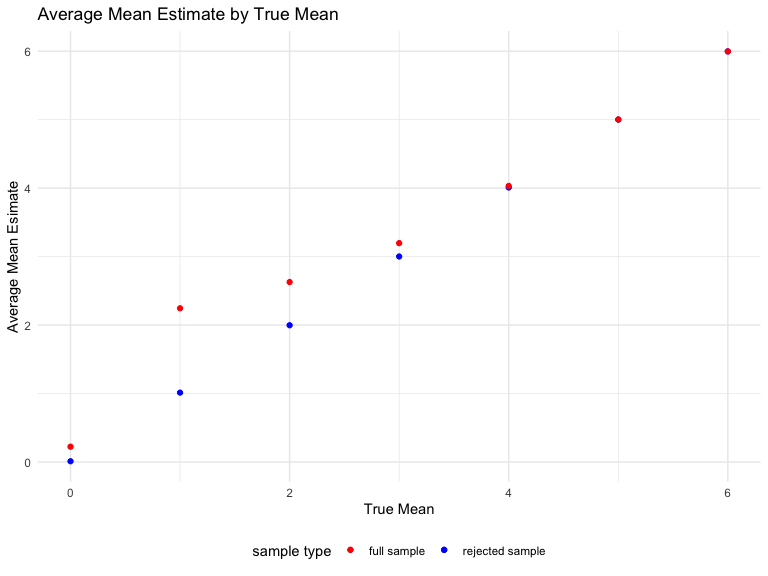
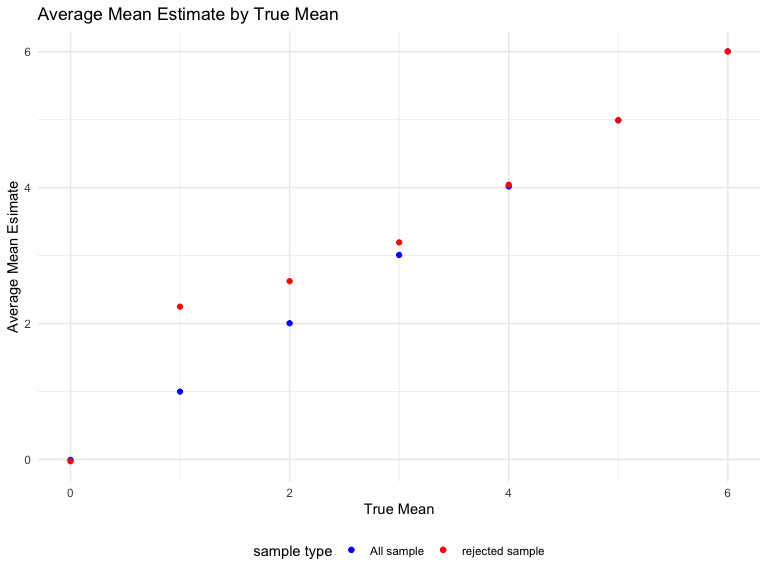
Make a plot showing the average estimate mean vs true mean in whole sample and rejection sample, and comment on the result

Changed region(s): [[0.3125, 0.9375, 0.7188, 0.9688], [0.0312, 0.7812, 0.0938, 0.8125]]

diff --git a/p8105_hw5_jt3387.md b/p8105_hw5_jt3387.md
@@ -57,3 +57,330 @@ above average end up above average, and those that start below average
 end up below average. Subjects in the control group generally don’t
 change over time, but those in the experiment group increase their
 outcome in a roughly linear way.
+
+## Problem 2
+
+Load the data.
+
+``` r
+homicide_raw <- read_csv("https://raw.githubusercontent.com/washingtonpost/data-homicides/master/homicide-data.csv")
+```
+
+Description of the raw data:
+
+-   The data set contain 52179 observations and 12 variables.
+
+-   The key variables are: `uid` represents the identity of every
+    record, `reported_data` represents the date when the homicide was
+    reported, `victim_last` and `victim_first` show the last and first
+    name of the victim, `victim_race`, `victime_age`, `victim_sex` show
+    the race, age, and gender of the victim, `city` and `state`
+    represents which city and state the homicide happened, `lat` and
+    `lon` represent the latitude and longitude coordinates of the
+    homicide, `disposition` represents the result of the homicide.
+
+-   `victim_age` is a character variable, and there are NAs and
+    `unknown` values in it. I’ll invert it into numeric. There are also
+    NAs in `lat` and `lon` variables. There is a row with Tulsa as city
+    and AL as state seems to have an error, so I’ll remove this row.
+
+Create the `city_state` variable.
+
+``` r
+homicide <- homicide_raw %>% 
+  mutate(victim_age = as.numeric(victim_age),
+         city_state = paste(city, state, sep = ", "))
+homicide_city <- homicide %>% 
+  group_by(city_state) %>% 
+  summarize(total_homicide = n(),
+            unsolved_homicide = sum(disposition == "Closed without arrest" | 
+                                      disposition == "Open/No arrest")) %>% 
+  filter(city_state != "Tulsa, AL")
+homicide_city %>% knitr::kable() 
+```
+
+| city_state         | total_homicide | unsolved_homicide |
+|:-------------------|---------------:|------------------:|
+| Albuquerque, NM    |            378 |               146 |
+| Atlanta, GA        |            973 |               373 |
+| Baltimore, MD      |           2827 |              1825 |
+| Baton Rouge, LA    |            424 |               196 |
+| Birmingham, AL     |            800 |               347 |
+| Boston, MA         |            614 |               310 |
+| Buffalo, NY        |            521 |               319 |
+| Charlotte, NC      |            687 |               206 |
+| Chicago, IL        |           5535 |              4073 |
+| Cincinnati, OH     |            694 |               309 |
+| Columbus, OH       |           1084 |               575 |
+| Dallas, TX         |           1567 |               754 |
+| Denver, CO         |            312 |               169 |
+| Detroit, MI        |           2519 |              1482 |
+| Durham, NC         |            276 |               101 |
+| Fort Worth, TX     |            549 |               255 |
+| Fresno, CA         |            487 |               169 |
+| Houston, TX        |           2942 |              1493 |
+| Indianapolis, IN   |           1322 |               594 |
+| Jacksonville, FL   |           1168 |               597 |
+| Kansas City, MO    |           1190 |               486 |
+| Las Vegas, NV      |           1381 |               572 |
+| Long Beach, CA     |            378 |               156 |
+| Los Angeles, CA    |           2257 |              1106 |
+| Louisville, KY     |            576 |               261 |
+| Memphis, TN        |           1514 |               483 |
+| Miami, FL          |            744 |               450 |
+| Milwaukee, wI      |           1115 |               403 |
+| Minneapolis, MN    |            366 |               187 |
+| Nashville, TN      |            767 |               278 |
+| New Orleans, LA    |           1434 |               930 |
+| New York, NY       |            627 |               243 |
+| Oakland, CA        |            947 |               508 |
+| Oklahoma City, OK  |            672 |               326 |
+| Omaha, NE          |            409 |               169 |
+| Philadelphia, PA   |           3037 |              1360 |
+| Phoenix, AZ        |            914 |               504 |
+| Pittsburgh, PA     |            631 |               337 |
+| Richmond, VA       |            429 |               113 |
+| Sacramento, CA     |            376 |               139 |
+| San Antonio, TX    |            833 |               357 |
+| San Bernardino, CA |            275 |               170 |
+| San Diego, CA      |            461 |               175 |
+| San Francisco, CA  |            663 |               336 |
+| Savannah, GA       |            246 |               115 |
+| St. Louis, MO      |           1677 |               905 |
+| Stockton, CA       |            444 |               266 |
+| Tampa, FL          |            208 |                95 |
+| Tulsa, OK          |            583 |               193 |
+| Washington, DC     |           1345 |               589 |
+
+Use the `prop.test` function to estimate the proportion of homicides
+that are unsolved for Baltimore, MD.
+
+``` r
+baltimore_df <- homicide_city %>%
+  filter(city_state == "Baltimore, MD") 
+baltimore_test <- prop.test(x = baltimore_df$unsolved_homicide, 
+                            n = baltimore_df$total_homicide) %>%
+  broom::tidy() 
+baltimore_test %>%
+  select(estimate, conf.low, conf.high) %>% 
+  knitr::kable()
+```
+
+|  estimate |  conf.low | conf.high |
+|----------:|----------:|----------:|
+| 0.6455607 | 0.6275625 | 0.6631599 |
+
+-   From the test result, we can see that the proportion of homicides
+    which were unsolved was around 64.6% in Baltimore, MD, and the 95
+    percent confidence interval is \[0.6276, 0.6632\].
+
+Run prop.test for each of the cities in the data set.
+
+``` r
+ptest_tidy <- function(x, n){
+  result <- prop.test(x = x, n = n) %>% 
+    broom::tidy() %>% 
+    select(estimate, conf.low, conf.high)
+  result
+}
+citys_ptest <- homicide_city %>%
+  mutate(result_df = purrr::map2(unsolved_homicide, total_homicide, 
+                                 ~ptest_tidy(x = .x, n = .y))) %>% 
+  unnest(result_df)
+citys_ptest %>% knitr::kable() 
+```
+
+| city_state         | total_homicide | unsolved_homicide |  estimate |  conf.low | conf.high |
+|:-------------------|---------------:|------------------:|----------:|----------:|----------:|
+| Albuquerque, NM    |            378 |               146 | 0.3862434 | 0.3372604 | 0.4375766 |
+| Atlanta, GA        |            973 |               373 | 0.3833505 | 0.3528119 | 0.4148219 |
+| Baltimore, MD      |           2827 |              1825 | 0.6455607 | 0.6275625 | 0.6631599 |
+| Baton Rouge, LA    |            424 |               196 | 0.4622642 | 0.4141987 | 0.5110240 |
+| Birmingham, AL     |            800 |               347 | 0.4337500 | 0.3991889 | 0.4689557 |
+| Boston, MA         |            614 |               310 | 0.5048860 | 0.4646219 | 0.5450881 |
+| Buffalo, NY        |            521 |               319 | 0.6122841 | 0.5687990 | 0.6540879 |
+| Charlotte, NC      |            687 |               206 | 0.2998544 | 0.2660820 | 0.3358999 |
+| Chicago, IL        |           5535 |              4073 | 0.7358627 | 0.7239959 | 0.7473998 |
+| Cincinnati, OH     |            694 |               309 | 0.4452450 | 0.4079606 | 0.4831439 |
+| Columbus, OH       |           1084 |               575 | 0.5304428 | 0.5002167 | 0.5604506 |
+| Dallas, TX         |           1567 |               754 | 0.4811742 | 0.4561942 | 0.5062475 |
+| Denver, CO         |            312 |               169 | 0.5416667 | 0.4846098 | 0.5976807 |
+| Detroit, MI        |           2519 |              1482 | 0.5883287 | 0.5687903 | 0.6075953 |
+| Durham, NC         |            276 |               101 | 0.3659420 | 0.3095874 | 0.4260936 |
+| Fort Worth, TX     |            549 |               255 | 0.4644809 | 0.4222542 | 0.5072119 |
+| Fresno, CA         |            487 |               169 | 0.3470226 | 0.3051013 | 0.3913963 |
+| Houston, TX        |           2942 |              1493 | 0.5074779 | 0.4892447 | 0.5256914 |
+| Indianapolis, IN   |           1322 |               594 | 0.4493192 | 0.4223156 | 0.4766207 |
+| Jacksonville, FL   |           1168 |               597 | 0.5111301 | 0.4820460 | 0.5401402 |
+| Kansas City, MO    |           1190 |               486 | 0.4084034 | 0.3803996 | 0.4370054 |
+| Las Vegas, NV      |           1381 |               572 | 0.4141926 | 0.3881284 | 0.4407395 |
+| Long Beach, CA     |            378 |               156 | 0.4126984 | 0.3629026 | 0.4642973 |
+| Los Angeles, CA    |           2257 |              1106 | 0.4900310 | 0.4692208 | 0.5108754 |
+| Louisville, KY     |            576 |               261 | 0.4531250 | 0.4120609 | 0.4948235 |
+| Memphis, TN        |           1514 |               483 | 0.3190225 | 0.2957047 | 0.3432691 |
+| Miami, FL          |            744 |               450 | 0.6048387 | 0.5685783 | 0.6400015 |
+| Milwaukee, wI      |           1115 |               403 | 0.3614350 | 0.3333172 | 0.3905194 |
+| Minneapolis, MN    |            366 |               187 | 0.5109290 | 0.4585150 | 0.5631099 |
+| Nashville, TN      |            767 |               278 | 0.3624511 | 0.3285592 | 0.3977401 |
+| New Orleans, LA    |           1434 |               930 | 0.6485356 | 0.6231048 | 0.6731615 |
+| New York, NY       |            627 |               243 | 0.3875598 | 0.3494421 | 0.4270755 |
+| Oakland, CA        |            947 |               508 | 0.5364308 | 0.5040588 | 0.5685037 |
+| Oklahoma City, OK  |            672 |               326 | 0.4851190 | 0.4467861 | 0.5236245 |
+| Omaha, NE          |            409 |               169 | 0.4132029 | 0.3653146 | 0.4627477 |
+| Philadelphia, PA   |           3037 |              1360 | 0.4478103 | 0.4300380 | 0.4657157 |
+| Phoenix, AZ        |            914 |               504 | 0.5514223 | 0.5184825 | 0.5839244 |
+| Pittsburgh, PA     |            631 |               337 | 0.5340729 | 0.4942706 | 0.5734545 |
+| Richmond, VA       |            429 |               113 | 0.2634033 | 0.2228571 | 0.3082658 |
+| Sacramento, CA     |            376 |               139 | 0.3696809 | 0.3211559 | 0.4209131 |
+| San Antonio, TX    |            833 |               357 | 0.4285714 | 0.3947772 | 0.4630331 |
+| San Bernardino, CA |            275 |               170 | 0.6181818 | 0.5576628 | 0.6753422 |
+| San Diego, CA      |            461 |               175 | 0.3796095 | 0.3354259 | 0.4258315 |
+| San Francisco, CA  |            663 |               336 | 0.5067873 | 0.4680516 | 0.5454433 |
+| Savannah, GA       |            246 |               115 | 0.4674797 | 0.4041252 | 0.5318665 |
+| St. Louis, MO      |           1677 |               905 | 0.5396541 | 0.5154369 | 0.5636879 |
+| Stockton, CA       |            444 |               266 | 0.5990991 | 0.5517145 | 0.6447418 |
+| Tampa, FL          |            208 |                95 | 0.4567308 | 0.3881009 | 0.5269851 |
+| Tulsa, OK          |            583 |               193 | 0.3310463 | 0.2932349 | 0.3711192 |
+| Washington, DC     |           1345 |               589 | 0.4379182 | 0.4112495 | 0.4649455 |
+
+Create a plot that shows the estimates and CIs for each city.
+
+``` r
+citys_ptest %>% 
+  mutate(city_state = fct_reorder(city_state, estimate)) %>% 
+  ggplot(aes(x = city_state, y = estimate)) +
+  geom_point() +
+  geom_errorbar(aes(ymin = conf.low, ymax = conf.high)) +
+  labs(title = "Proportion and 95%CI of Unsolved Homicides by City in USA",
+       x = "City, State",
+       y = "Proportion") +
+  theme(axis.text.x = element_text(angle = 90, hjust = 1))
+```
+
+<img src="p8105_hw5_jt3387_files/figure-gfm/unnamed-chunk-8-1.png" width="90%" />
+
+From the plot, we can see that Richmond, VA has the lowest rate of
+unsolved homicides and Chicago, IL has the highest rate among these 50
+cities.
+
+## Problem 3
+
+Create a function to save the estimated mean and the p-value from the
+t-test, and apply it to a simulation containing 5000 times t-test with =
+0 by using `map` function.
+
+``` r
+ttest_simulation <- function(n_obs = 30, mu, sigma = 5) {
+  x <- rnorm(n = n_obs, mean = mu, sd = sigma)
+  result <- t.test(x) %>% 
+    broom::tidy() %>% 
+    select(estimate, p.value)
+}
+result_mu_0 <- expand_grid(mu = 0, iter = 1:5000) %>% 
+  mutate(test_result = map(.x = mu, ~ttest_simulation(mu = .x))) %>% 
+  unnest(test_result)
+head(result_mu_0, 10)
+```
+
+    ## # A tibble: 10 × 4
+    ##       mu  iter estimate p.value
+    ##    <dbl> <int>    <dbl>   <dbl>
+    ##  1     0     1  -2.16    0.0449
+    ##  2     0     2   0.420   0.624 
+    ##  3     0     3   0.252   0.791 
+    ##  4     0     4  -0.0172  0.982 
+    ##  5     0     5  -0.255   0.785 
+    ##  6     0     6  -0.264   0.828 
+    ##  7     0     7   1.21    0.187 
+    ##  8     0     8  -1.50    0.120 
+    ##  9     0     9  -0.938   0.248 
+    ## 10     0    10   0.828   0.403
+
+Repeat the above for = {1,2,3,4,5,6}.
+
+``` r
+results_mus = expand_grid(mu = 1:6, iter = 1:5000) %>% 
+  mutate(test_result = map(.x = mu, ~ttest_simulation(mu = .x))) %>% 
+  unnest(test_result)
+head(results_mus, 10)
+```
+
+    ## # A tibble: 10 × 4
+    ##       mu  iter  estimate p.value
+    ##    <int> <int>     <dbl>   <dbl>
+    ##  1     1     1  2.46     0.00528
+    ##  2     1     2 -0.000356 1.00   
+    ##  3     1     3 -1.24     0.144  
+    ##  4     1     4 -0.450    0.675  
+    ##  5     1     5  1.94     0.0746 
+    ##  6     1     6  1.95     0.0455 
+    ##  7     1     7  0.975    0.280  
+    ##  8     1     8  2.58     0.0198 
+    ##  9     1     9  0.543    0.570  
+    ## 10     1    10  1.88     0.0393
+
+Make a plot to show the proportion of times the null was rejected (the
+power of the test) on the y axis and the true value of on the x axis.
+
+``` r
+results_allmu <- rbind(result_mu_0,results_mus)
+results_allmu %>%
+  group_by(mu) %>%
+  summarise(rej_null_no = sum(p.value < 0.05),
+            sim_no = n()) %>%
+  mutate(rej_null_prop = rej_null_no / sim_no)  %>% 
+  ggplot(aes(x = mu, y = rej_null_prop)) + 
+  geom_point() + 
+  labs(title = "Null Hypothesis Rejection Proportion and True Mean",
+       x = "True Mean",
+       y = "Null Rejection Proportion(Power of Test)")
+```
+
+<img src="p8105_hw5_jt3387_files/figure-gfm/unnamed-chunk-11-1.png" width="90%" />
+
+-   From the plot, we can see that the power increases as the true
+    sample mean increases, so there is a positive relationship between
+    the effect size and power.
+
+Make a plot showing the average estimate of on the y axis and the true
+value of on the x axis in all samples and in samples for which the null
+was rejected.
+
+``` r
+hat_mu_all <- results_allmu %>% 
+  group_by(mu) %>% 
+  summarize(hat_mu = mean(estimate))
+hat_mu_rej <- results_allmu %>% 
+  filter(p.value < 0.05) %>% 
+  group_by(mu) %>% 
+  summarize(hat_mu = mean(estimate))
+ggplot(hat_mu_all, aes(x = mu, y = hat_mu, color = 'blue')) +
+  geom_point() +
+  geom_point(data = hat_mu_rej, aes(x = mu, y = hat_mu, color = 'red')) +
+  scale_color_manual(name = 'sample type',
+                     values = c("blue", "red"),
+                     labels = c('All sample','rejected sample')) +
+  labs(title = "Average Mean Estimate by True Mean",
+       x = "True Mean",
+       y = "Average Mean Esimate")
+```
+
+<img src="p8105_hw5_jt3387_files/figure-gfm/unnamed-chunk-12-1.png" width="90%" />
+
+-   From the plot, we can see that the sample average of ｛｝ across
+    tests for which the null is rejected is approximately equal to the
+    true value of when the true mean equals to 0, 4, 5, and 6, while
+    they are not approximately equal to each other when the true mean
+    equals to 1, 2, and 3.
+
+-   The estimated in non-reject sample is basically small, and the
+    estimated in reject sample is relatively bigger. When = 0, there
+    will be few reject null samples due to the random error, so the
+    estimated is very similar to the true mean. When = 1, 2, 3, the
+    effect size and null rejection proportion (power) is small, so the
+    reject sample is not a big part of the whole sample. Therefore, when
+    we get rid of the non-reject sample, the in the reject sample is
+    going to get bigger. When = 4, 5, 6, the effect size and null
+    rejection proportion (power) is big, so the reject sample is a big
+    part of the whole sample. Therefore, the in the reject sample are
+    similar to the true mean after getting rid of the non-reject sample.
